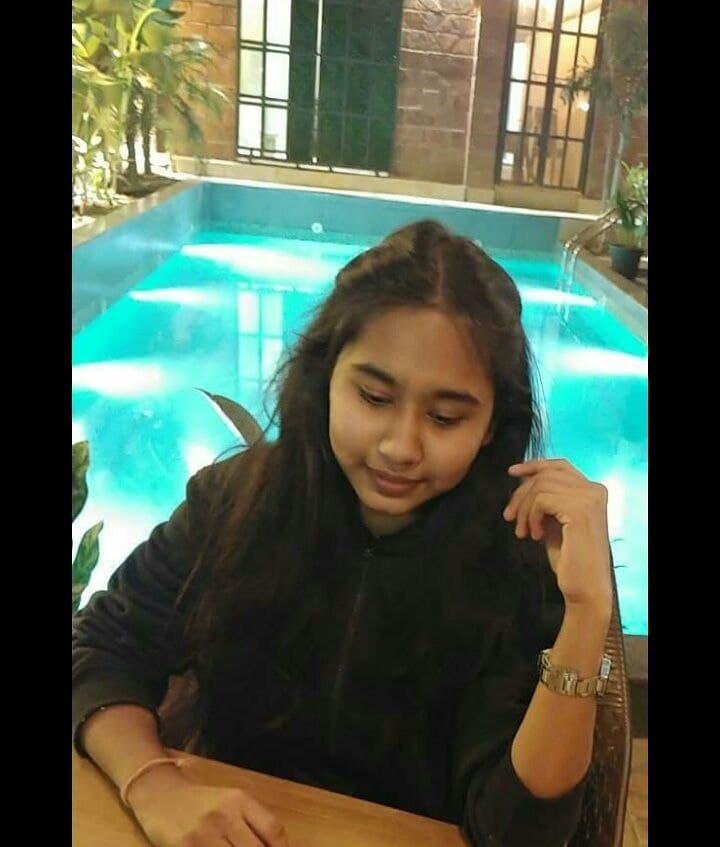
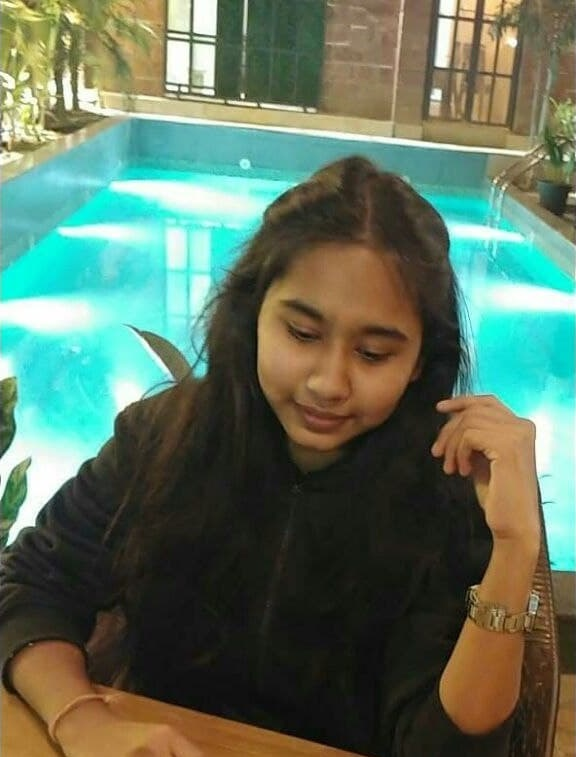
updated photos

diff --git a/index.html b/index.html
@@ -108,7 +108,7 @@
                                     129.362C2.45775 97.8511 -7.48481 59.1033 6.67581 34.5279C20.9871 10.1032 59.7028 
                                     -0.149132 97.9666 0.00163737C136.23 0.303176 174.193 10.857 190.312 36.4879Z" />
 
-                                    <image class="home__blob-img" x="12" y="18" xlink:href="" />
+                                    <image class="home__blob-img" x="12" y="18" xlink:href="images/img.png" />
                                 </g>
                             </svg>
                         </div>
@@ -141,7 +141,7 @@
                 <span class="section__subtitle">My Introduction</span>
 
                 <div class="about__container container grid">
-                    <img src="images/pic.jpg" class="about__img" alt="">
+                    <img src="images/photo.jpg" class="about__img" alt="">
 
                     <div class="about__data">
                         <p class="about__description">
